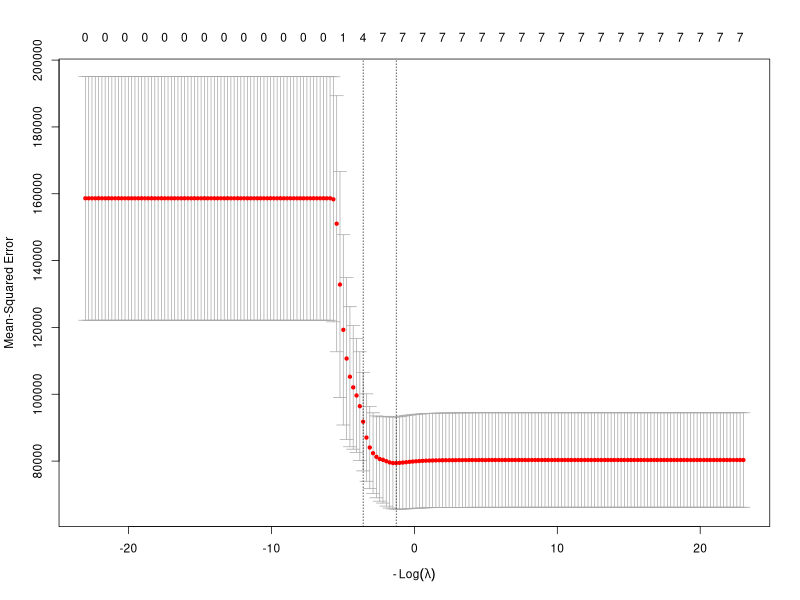
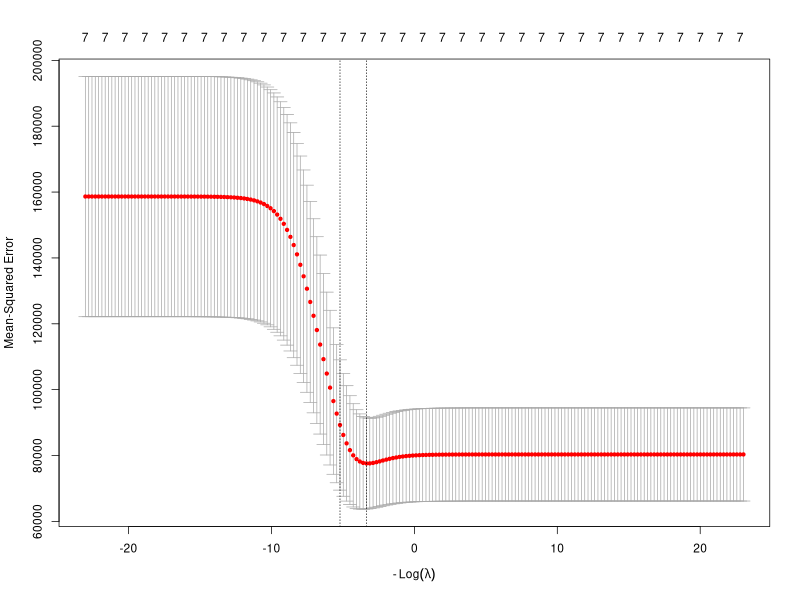
Implement ridge regression and elastic net models; refactor regularization.py for optimal lambda and alpha selection

diff --git a/new_usrime/regularization.py b/new_usrime/regularization.py
@@ -23,40 +23,13 @@ if __name__ == "__main__":
     X = ds[[c for c in ds.columns if c != "Crime"]]
     y = ds["Crime"]
 
-    model = r.r('''
-        model <- lm(Crime ~ ., data=ds)
-        model                
-    ''')
-
-    resid = r.r(f'''
-        fit <- fitted(model)
-        res <- resid(model)
-        png("{PATH}/img/res_plot.png", width=800, height=600)
-        plot(fit,res)
-        dev.off()
-
-    ''')
-
-    breusch_pagan = r.r('''
-        res2 <- resid(model)^2
-        fit2 <- lm(res2 ~ ., data=ds)
-        fit2
-    ''')
-
-    white_test = r.r('''
-        fit1 <- fitted(model)
-        fit1_2 <- fit1^2
-        res2 <- resid(model)^2
-        model_withe <- lm(res2 ~ fit1 + fit1_2)
-    ''')
-    #lambda=lambda_grid
     ridge = r.r(f'''
         library(glmnet)
         set.seed(123)
         lambda_grid <- 10^seq(10, -10, length = 200)
         X_matrix <- as.matrix(ds[ , !(names(ds) %in% c("Crime")) ])
         y_vector <- as.vector(ds$Crime)
-        ridge_model <- cv.glmnet(X_matrix, y_vector, alpha=1, nfolds = 5, lambda = lambda_grid)
+        ridge_model <- cv.glmnet(X_matrix, y_vector,alpha=0, nfolds = 5, lambda = lambda_grid)
         
         png("{PATH}/img/ridge_path_plot.png", width=800, height=600)
         plot(ridge_model, label=TRUE)
@@ -66,14 +39,51 @@ if __name__ == "__main__":
     ''')
 
     best_lambda = r.r(f'''
-        set.seed(123)
-        best_ridge <- glmnet(X_matrix, y_vector,lambda=best_lambda, nfolds = 5, alpha=1)
+        best_ridge <- glmnet(X_matrix, y_vector,lambda=best_lambda, nfolds = 5,alpha=0)
+        lse <- best_ridge$lambda.1se
         best_ridge
     ''')
 
+    best_aplha = r.r(f''' 
+        alpha_grid <- seq(0, 1, by = 0.01)
+        set.seed(123)
+        results <- data.frame(
+            alpha      = numeric(),
+            lambda_min = numeric(),
+            lambda_1se = numeric(),
+            cvm_min    = numeric()
+        )
+
+        cv_models <- list()
+                      
+        for (a in alpha_grid) {{
+            cv_fit <- cv.glmnet(X_matrix, y_vector, alpha = a, nfolds = 5, lambda = lambda_grid)
+            best_index <- which.min(cv_fit$cvm)
+            results <- rbind(
+                results,
+                data.frame(
+                    alpha      = a,
+                    lambda_min = cv_fit$lambda.min,
+                    lambda_1se = cv_fit$lambda.1se,
+                    cvm_min    = cv_fit$cvm[best_index]
+                )
+            )
+            cv_models[[as.character(a)]] <- cv_fit
+        }}
+                      
+        results[which.min(results$cvm_min), ]
+    ''')
+
+    en_estimator = r.r(f'''
+        best_alpha <- {best_aplha.rx2('alpha')[0]}
+        best_lambda <- {best_aplha.rx2('lambda_min')[0]}
+        en_model <- glmnet(X_matrix, y_vector, alpha = best_alpha, lambda = best_lambda)
+        en_model
+    ''')
+
     print(f"Ridge Regression - Optimal Lambda: {ridge}")
-    print("Ridge MSE:\n", r.r('best_ridge$lambda.1se'))
+    print("Ridge MSE:\n", r.r('lse'))
     print("Ridge Regression Coefficients:\n", r.r('coef(best_ridge)'))
-    #print("Linear Model Summary:\n", r.r('summary(model)'))
-    #print("Breusch-Pagan Test Summary:\n", r.r('summary(fit2)'))
-    #print("White Test Summary:\n", r.r('summary(model_withe)'))
+    print("Results Alpha Elastic Net:\n", r.r("results"))
+    print("Alpha Elastic Net Results:\n", best_aplha)
+    print("Elastic Net Coefficients:\n", r.r('coef(en_model)'))

diff --git a/new_usrime/eteroschedasticita.py b/new_usrime/eteroschedasticita.py
@@ -1,0 +1,67 @@
+from dotenv import load_dotenv
+import os
+import rpy2.robjects as r
+from main import load_dataset, install_packages
+
+if __name__ == "__main__":
+    load_dotenv()
+    PATH = os.getenv("DATASET_PATH")
+    DATASET_NAME = "4_New_uscrime_2.txt"
+
+    install_packages(["glmnet"])
+    
+    ds = load_dataset(PATH, DATASET_NAME)
+
+    for col,i in zip(ds.columns, range(1,len(ds.columns)+1)):
+        c = r.r(f'''
+            {col} <- ds[,{i}];
+            {col}
+        ''')
+        r.globalenv[col] = c
+
+    # Separazione delle features e target
+    X = ds[[c for c in ds.columns if c != "Crime"]]
+    y = ds["Crime"]
+
+    model = r.r('''
+        model <- lm(Crime ~ ., data=ds)
+        model                
+    ''')
+
+    resid = r.r(f'''
+        fit <- fitted(model)
+        res <- resid(model)
+        png("{PATH}/img/res_plot.png", width=800, height=600)
+        plot(fit,res)
+        dev.off()
+
+    ''')
+
+    breusch_pagan = r.r('''
+        res2 <- resid(model)^2
+        fit2 <- lm(res2 ~ ., data=ds)
+        fit2
+    ''')
+
+    white_test = r.r('''
+        fit1 <- fitted(model)
+        fit1_2 <- fit1^2
+        res2 <- resid(model)^2
+        model_white <- lm(res2 ~ fit1 + fit1_2)
+        model_white
+    ''')
+
+    for c in ds.columns:
+        wt_c = r.r(f'''
+            {c}_wt <- {c}/fitted(model)
+        ''')
+
+    wt_model = r.r(f"""
+        fit1_r <- 1/fitted(model)
+        wt_estimate <- lm(Crime_wt ~ fit1_r + {"+".join([c+"_wt" for c in ds.columns if c != "Crime" and c != "Time" and c!= "Ed" and c !="Wealth"])} -1)
+        wt_estimate
+    """)
+    
+    print("Summary BP: \n",r.r("summary(fit2)"))
+    print("Summary WT: \n",r.r("summary(model_white)"))
+    print("Summary WT Estimation: \n",r.r("summary(wt_estimate)"))
